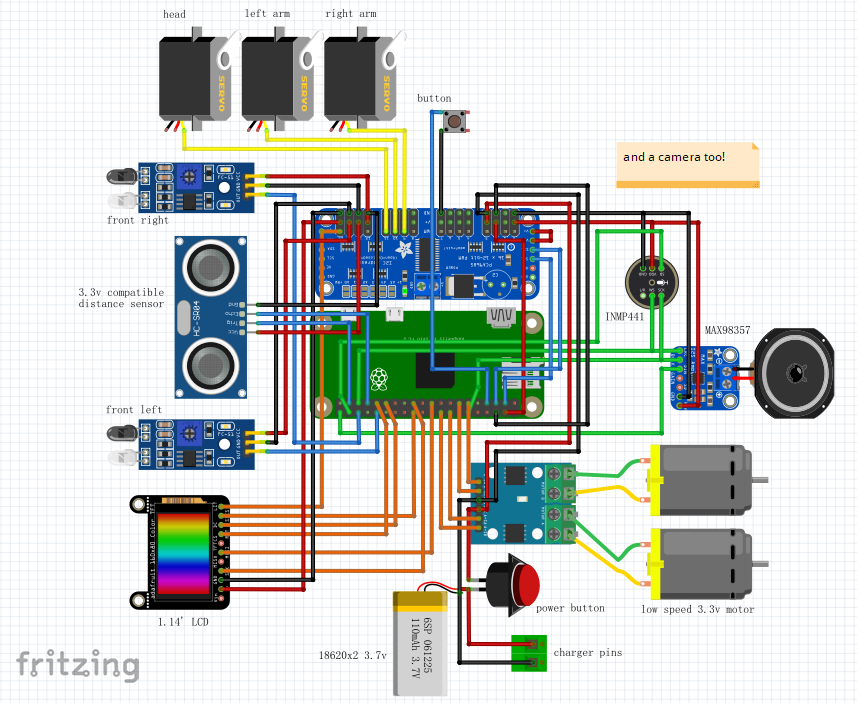
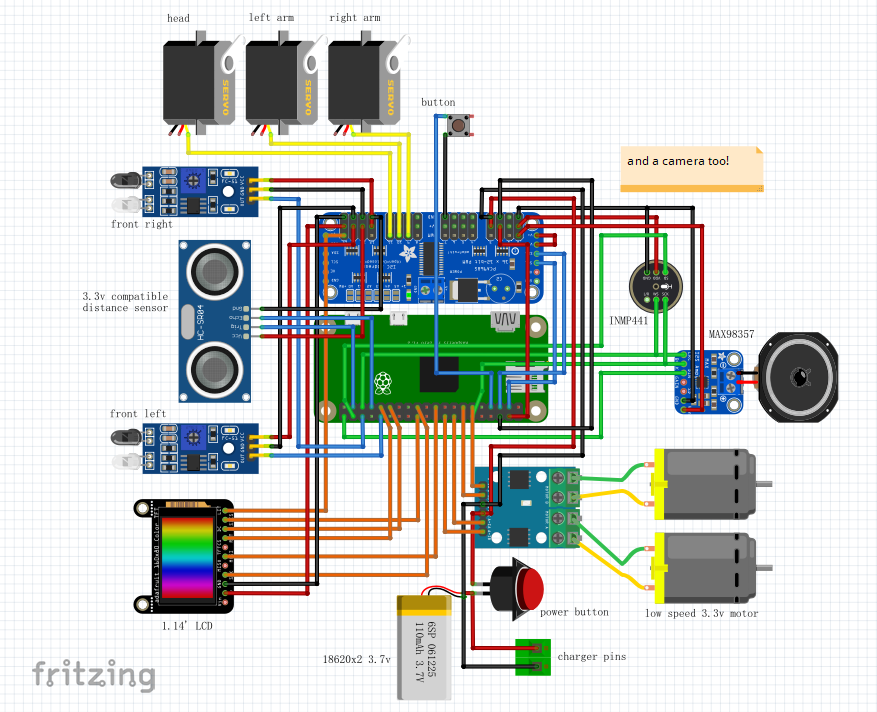
correct wiring

diff --git a/rcute_cozmars_server/static/cozmars.js b/rcute_cozmars_server/static/cozmars.js
@@ -26,7 +26,6 @@ class Cozmars {
 		this.camera = new Camera(this);
 		this.lift = new Lift(this);
 		this.head = new Head(this);
-		this.buzzer = new Buzzer(this);
 		this.motor = new Motor(this);
 		this.screen = new Screen(this);
 		// this.eyes = new EyeAnimation(this);
@@ -44,6 +43,8 @@ class Cozmars {
 		ws.onerror = (e)=>{console.error('cozmars ws error:', e);}
 		if('-1' == await new Promise((r,j)=>{ws.onmessage=e=>{r(e.data)}})) throw 'Please close other programs or pages that are connecting to Cozmars first';
 		this.ws = ws;
+		this.about = await fetch('http://'+this.host+'/about').then(r=>r.json())
+		[this.buzzer, this.speaker] = this.about.version[0]=='1'?[new Buzzer(this), null]:[null, new Speaker(this)];		
 		this._stub = new RPCClient(ws);
 		this._startSensorTask();
 		this._connected = true;
@@ -233,33 +234,40 @@ class Camera extends OutputStreamComponent{
 		this._framerate = fr;
 	}
 	_createRpc() {
-		const [w, h] = this.resolution;
-		return this._stub.rpc('camera', [w, h, this.framerate]);
+		return this._stub.rpc('camera', [...this.resolution, this.framerate]);
 	}
 }
+soundMixin={
+	samplerate(sr){
+		if(sr==undefined)return this._samplerate;
+		if(this.closed) throw 'Cannot set samplerate while device is running';
+		this._samplerate = sr;
+	}
+	blockduration(bd){
+		if(bd==undefined)return this._blockduration;
+		if(this.closed) throw 'Cannot set blockduration while device is running';
+		this._blockduration = bd;		
+	}
+	dtype(dt){
+		if(dt==undefined)return this._dtype;
+		if(this.closed) throw 'Cannot set dtype while device is running';
+		this._dtype = dt;		
+	}
+	samplewidth(dt){return {'int16':2, 'int8':1, 'int32':4, 'float32':4, 'float64':8}[dt||this._dtype]}
+	channels(){return 1}
+	async volume(v){return await this._stub.rpc(this._volume_name,v?[v]:[])}
+};
 class Microphone extends OutputStreamComponent{
 	constructor(robot) {
 		super(robot);
 		this._samplerate = 16000;
 		this._dtype = 'int16';
-		this._frameTime = 0.1;
+		this._blockduration = 0.1;
+		this._volume_name='microphone_volume';
 	}
-	get samplerate(){return this._samplerate }
-	get frameTime(){return this._frameTime}
-	get dtype(){return this._dtype}
-	get channels(){return 1}
-	set samplerate(sr){
-		if (!this.closed)
-			throw 'Cannot set resolution while microphone is running';
-		this._samplerate = sr;
-	}
-	set frameTime(ft) {
-		if (!this.closed)
-			throw 'Cannot set resolution while microphone is running';
-		this._frameTime = ft;
-	}
-	_createRpc() {return this._stub.rpc('microphone', [this.samplerate, this.dtype, this.frameTime])}	
+	_createRpc() {return this._stub.rpc('microphone', [this.samplerate(), this.dtype(), parseInt(this.samplerate()*this.blockduration())])}	
 }
+Object.assign(Microphone.prototype, soundMixin);
 class InputStreamComponent extends Component{
 	constructor(robot) {
 		super(robot);
@@ -281,17 +289,60 @@ class InputStreamComponent extends Component{
 		this._closed = false;
 	}
 }
-class Buzzer extends InputStreamComponent{	
+class Speaker extends InputStreamComponent {
 	constructor(robot) {
 		super(robot);
-		this._tones = 'CCDDEFFGGAAB';
-		this._semitones = {
-	        '♭': -1,
-	        'b': -1,
-	        '♮': 0,
-	        '':  0,
-	        '♯': 1,
-	        '#': 1,};
+		this._samplerate = 16000;
+		this._dtype = 'int16';
+		this._blockduration = 0.1;
+		this._volume_name = 'speaker_volume';
+	}
+	_createRpcAndQ(){
+		var q = new Queue();
+		return [this._stub.rpc('speaker',[this._t_sr,this._t_dt,parseInt(this._t_sr*this._t_bd)],q), q];
+	}
+	*_arrGen(arr,bs){
+		if(arr.length%bs){
+			var extended = new (arr.constructor)(Math.ceil(arr.length/bs)*bs);
+			extended.set(arr);
+			arr = extended;
+		}
+		for(var i=0;i<arr.length;i+=bs)			
+			yield new Uint8Array(arr.buffer,i*arr.BYTES_PER_ELEMENT,bs*arr.BYTES_PER_ELEMENT);
+	}
+	async play(arr, repeat=1, preload=5, op={}){
+		try{
+			this._t_sr = op.samplerate||this.samplerate();
+			this._t_dt = arr.constructor.name.toLowerCase().replace('array','');
+			this._t_bd = op.blockduration||this.blockduration();
+			this.open();
+			var count = 0;
+			while(repeat--)
+				for(var data of this._arrGen(arr, bs)){
+					await sleep(this._t_bd*(count>preload? 0.95: 0.5));
+					await this._inQ.put_nowait(data);	
+					count += this._t_bd;
+				}				
+		}catch(e) {
+			console.error(e);
+		} finally {
+			await this._inQ.put_nowait(null, true);
+			this.close();
+		}
+	}
+	async beep(tones, repeat=1, tempo=120, dutyCycle=0.9){}
+	sine(sec, freq, sr, fade=0.1, dt=Int8Array){
+		c = Math.PI*2*freq/sr;
+		max = dt.name[0]=='I' ? (2**(dt.BYTES_PER_ELEMENT*8-1)-1) : 1;
+		fadeStart = (sec-fade)*sr;
+		fade *= sr;
+		return dt.from({length:parseInt(sec*sr)},(x,i)=>((i<fadeStart*)?1:(1-(i-fadeStart)/fade))*Math.sin(c*i)*max)
+	}
+}
+Object.assign(Speaker.prototype, soundMixin);
+class Buzzer extends InputStreamComponent{	
+	constructor(robot) {
+		super(robot);		
 	}
 	_createRpcAndQ(){
 		var q = new Queue();
@@ -301,7 +352,7 @@ class Buzzer extends InputStreamComponent{
 	async tone(t, duration){
 		if (t==undefined) return this._tone;
 		else if(!this.closed) throw 'Cannot set tone while buzzer is playing';
-		else await this._stub.rpc('tone', [this._2freq(t), duration]);
+		else await this._stub.rpc('tone', [Tone(tone).freq, duration]);
 	}
 	async play(song, tempo=120, duty_cycle=0.9){
 		if (duty_cycle>1 || duty_cycle <=0) throw 'duty_cycle out of range (0, 1]';		
@@ -320,7 +371,7 @@ class Buzzer extends InputStreamComponent{
 					if (t=='(') delay/=2;
 					else if (t==')') delay*=2;
 					else {
-						await this._inQ.put_nowait(this._2freq(t));
+						await this._inQ.put_nowait(Tone(tone).freq)
 						await sleep(delay*duty_cycle);
 						if (duty_cycle!=1) {
 							await this._inQ.put_nowait(null);
@@ -341,7 +392,7 @@ class Buzzer extends InputStreamComponent{
 			for (t of tone)
 				this._play_one_tone(t, delay/2, duty_cycle);
 		}else {
-			await this._inQ.put_nowait(this._2freq(tone))
+			await this._inQ.put_nowait(Tone(tone).freq)
 			await sleep(delay*duty_cycle)
 			if (duty_cycle!=1){
 				await this._inQ.put_nowait(null);
@@ -349,20 +400,32 @@ class Buzzer extends InputStreamComponent{
 			}
 		}
 	}
-	_2freq(note) {
+}
+class Tone{
+	static _tones = 'CCDDEFFGGAAB';
+	static _semitones = {
+	        '♭': -1,
+	        'b': -1,
+	        '♮': 0,
+	        '':  0,
+	        '♯': 1,
+	        '#': 1,};
+	constructor(n) {this._n=n;this._freq=Tone._2freq(n);}
+	get freq() {return this._freq}
+	static _2freq(note) {
 		if (typeof note == 'string')
-			return this._note2freq(note);
+			return Tone._note2freq(note);
 		else if (typeof note == 'number' && note >0 && note < 128)
-			return this._midi2freq(note);
+			return Tone._midi2freq(note);
 		else
 			return note;
 	}
-	_midi2freq(midi_note){
+	static _midi2freq(midi_note){
 		var midi = parseInt(midi_note);
 		return  2 ** ((midi-69)/12) * 440;			
 	}
-	_note2freq(note) {
-		return this._midi2freq(this._tones.indexOf(note[0])+(note.length==3?this._semitones[note[1]]:0)+parseInt(note[note.length-1])*12+12)
+	static _note2freq(note) {
+		return Tone._midi2freq(Tone._tones.indexOf(note[0])+(note.length==3?Tone._semitones[note[1]]:0)+parseInt(note[note.length-1])*12+12)
 	}
 }
 class EyeAnimation extends Component {

diff --git a/rcute_cozmars_server/static/test.html b/rcute_cozmars_server/static/test.html
@@ -24,8 +24,8 @@ js_alter(typeof Cozmars=='undefined','static/cozmars.js');
 	<tr><td>{_("Infrared")}</td><td id='ir'></td></tr>
 </table>
 <h3>{_("Servo test")}</h3>
-	<button onclick='robot.head.angle(20)'>{_("Head up")}</button>
-	<button onclick='robot.head.angle(-20)'>{_("Head down")}</button>
+	<button onclick='robot.head.angle(30)'>{_("Head up")}</button>
+	<button onclick='robot.head.angle(-30)'>{_("Head down")}</button>
 	<button onclick='robot.lift.height(1)'>{_("Lift up")}</button>
 	<button onclick='robot.lift.height(0)'>{_("Lift down")}</button>
 <h3>{_("Motor test")}  <input id='sec' type='number' size='1' value='2'/>{_("second")}</h3>
@@ -34,8 +34,8 @@ js_alter(typeof Cozmars=='undefined','static/cozmars.js');
 	<button onclick='robot.motor.speed([1,1],parseInt(q("#sec ").value))'>{_("Forward")}</button>
 	<button onclick='robot.motor.speed([-1,-1],parseInt(q("#sec").value))'>{_("Backward")}</button>
 	<button onclick='robot.motor.speed([0,0])'>{_("Stop")}</button>
-<h3>{_("Buzzer test")}</h3>
-	<button onclick='robot.buzzer.play("A4,A4", 120)'>{_("Beep")}</button>
+<h3>{_("Speaker test")}</h3>
+	<button onclick='robot.speaker.beep([800])'>{_("Beep")}</button>
 <h3>{_("Display test")}</h3>
 	<button onclick='robot.screen.fill([rand_col(),rand_col(),rand_col()])'>{_("Random color")}</button>
 	<button onclick='robot.screen.brightness(0.8,1)'>{_("Bright")}</button>

diff --git a/rcute_cozmars_server/util.py b/rcute_cozmars_server/util.py
@@ -68,7 +68,7 @@ def splash_screen():
     return Image.open(splash)
 
 def beep(server):
-    with open(static('beep_400hz_16k_i8.raw'), 'rb') as f:
+    with open(static('beep_800hz_16k_i8.raw'), 'rb') as f:
         d = f.read()
     q = asyncio.Queue()
     for _ in range(5):

diff --git a/README.md b/README.md
@@ -17,7 +17,7 @@ Firmware for Cozmars V2
 	* memory split and set 128 or 256 for GPU (not sure if this is needed)
 * enable microphone according to [adafruit article](https://learn.adafruit.com/adafruit-i2s-mems-microphone-breakout/raspberry-pi-wiring-test)
 * enable i2s amp(speaker) according to adafruit article starting from ["Create asound.conf file" section](https://learn.adafruit.com/adafruit-max98357-i2s-class-d-mono-amp/raspberry-pi-usage#create-asound-dot-conf-file-2712971-28)
-* (optional) make rpi auto generate wifi hotspot when unable to connect to your wifi router, [this article from raspberryconnect](https://www.raspberryconnect.com/projects/65-raspberrypi-hotspot-accesspoints/158-raspberry-pi-auto-wifi-hotspot-switch-direct-connection) will help
+* make rpi auto generate wifi hotspot when unable to connect to your wifi router, [this article from raspberryconnect](https://www.raspberryconnect.com/projects/65-raspberrypi-hotspot-accesspoints/158-raspberry-pi-auto-wifi-hotspot-switch-direct-connection) will help
 * install required libs
 	1. build portaudio from latest(2020 Dec) source for [a new bug fix](https://github.com/PortAudio/portaudio/pull/344)
 		```
@@ -60,7 +60,7 @@ Firmware for Cozmars V2
 * 3.7v battery (important: not 7.4v)
 * ~~buzzer~~
 * MAX98357 amp
-* 8om, 0.5w, 36mm speaker
+* 35x20mm 8om 1w cavity speaker
 * and many 10cm wires (use soft silicone wires to connect display)
 
 ![wiring](/wiring.png)
@@ -73,5 +73,5 @@ This project is open sourced for educational purpose, Commercial usage is prohib
 
 ## Related stuff
 
-* 3d model(v1) and more detailed build instructions: https://www.thingiverse.com/thing:4657644
+* 3d model and build instructions: https://www.thingiverse.com/thing:4657644
 * python sdk: https://github.com/hyansuper/rcute-cozmars
